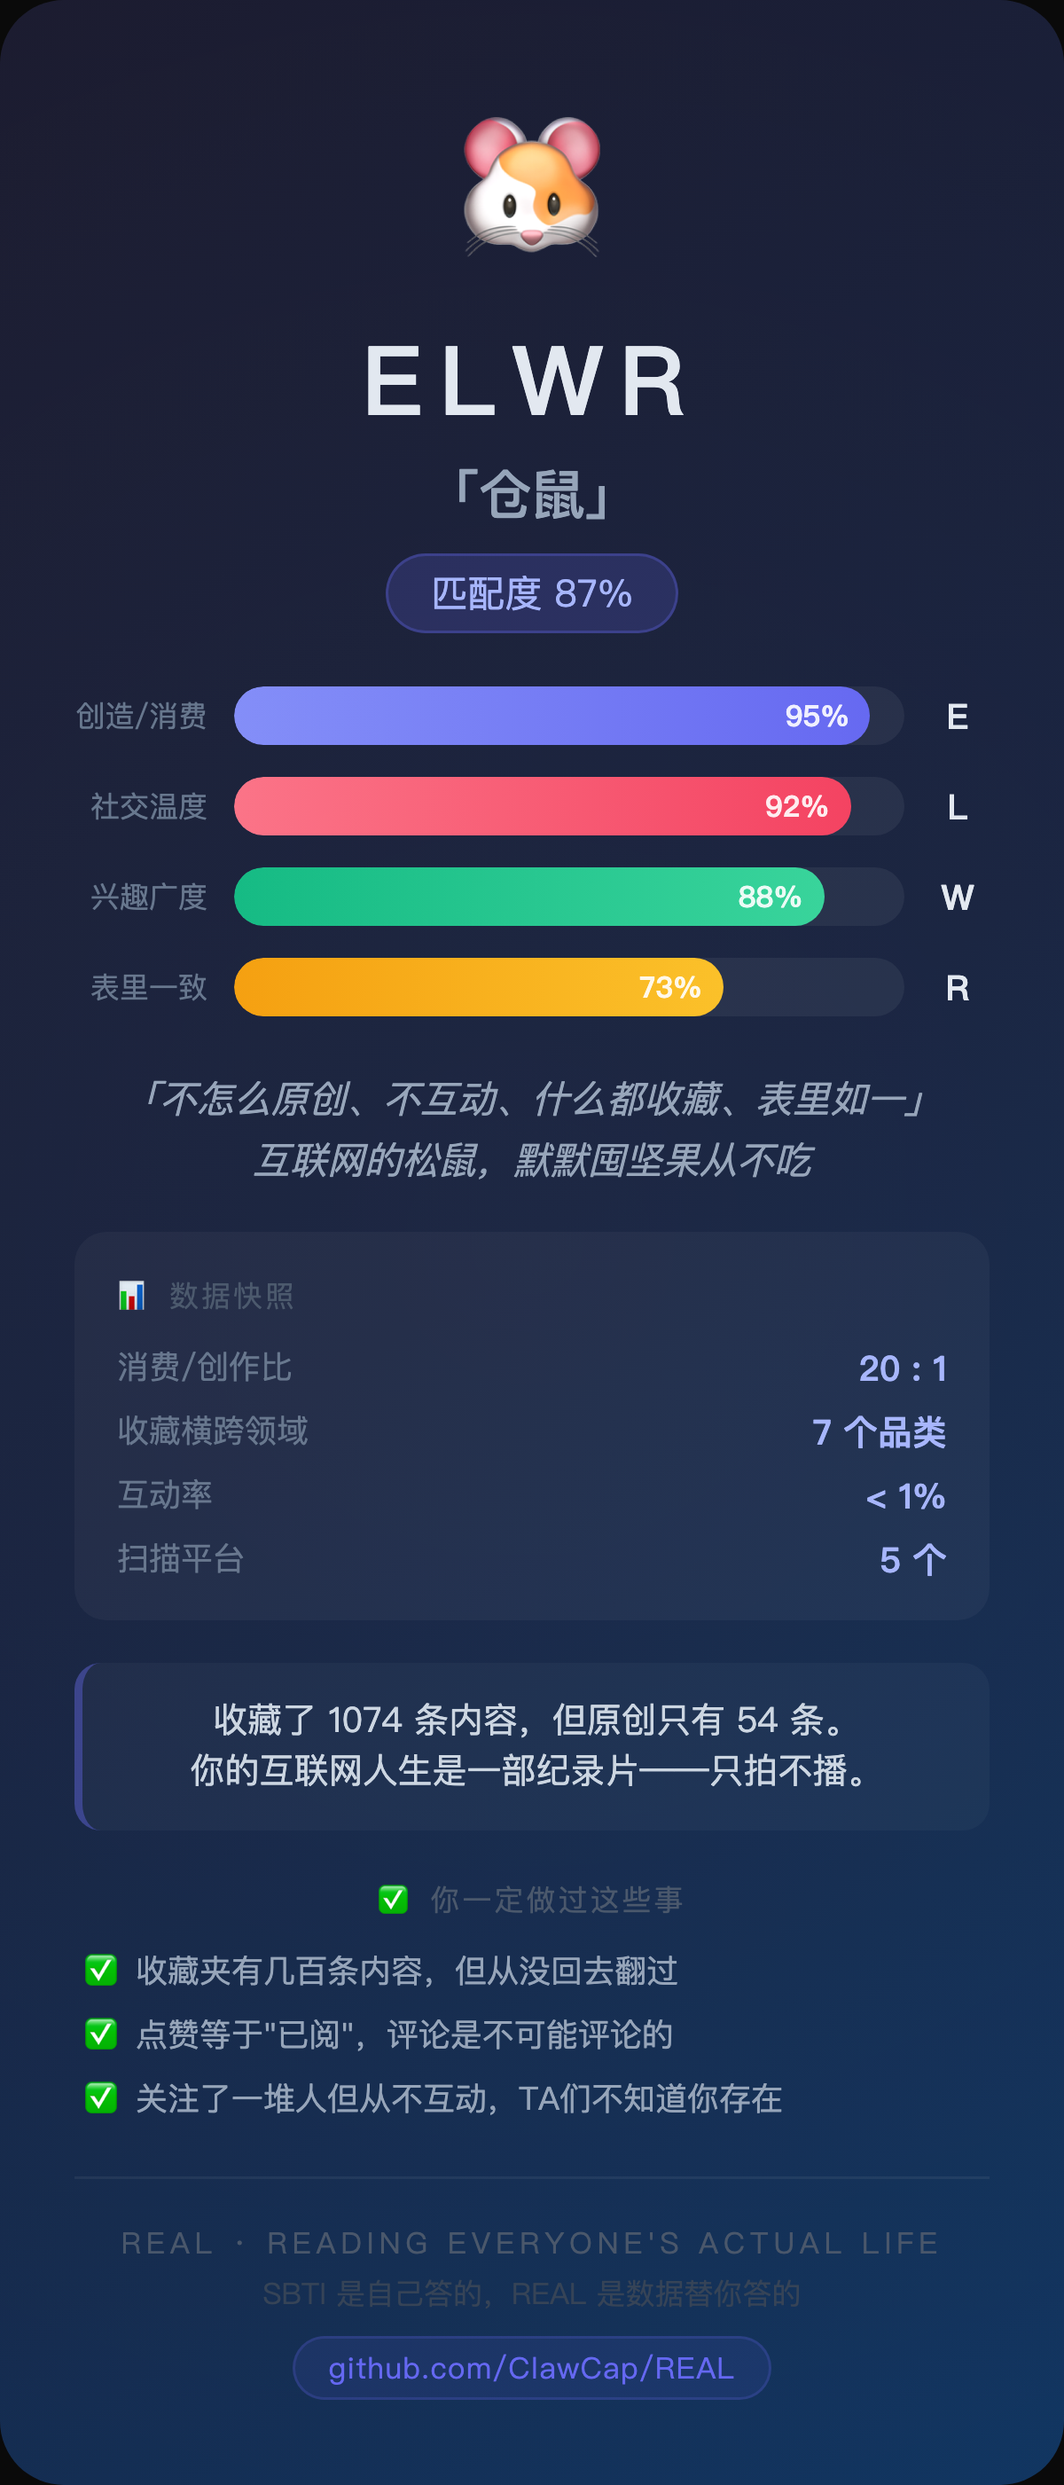
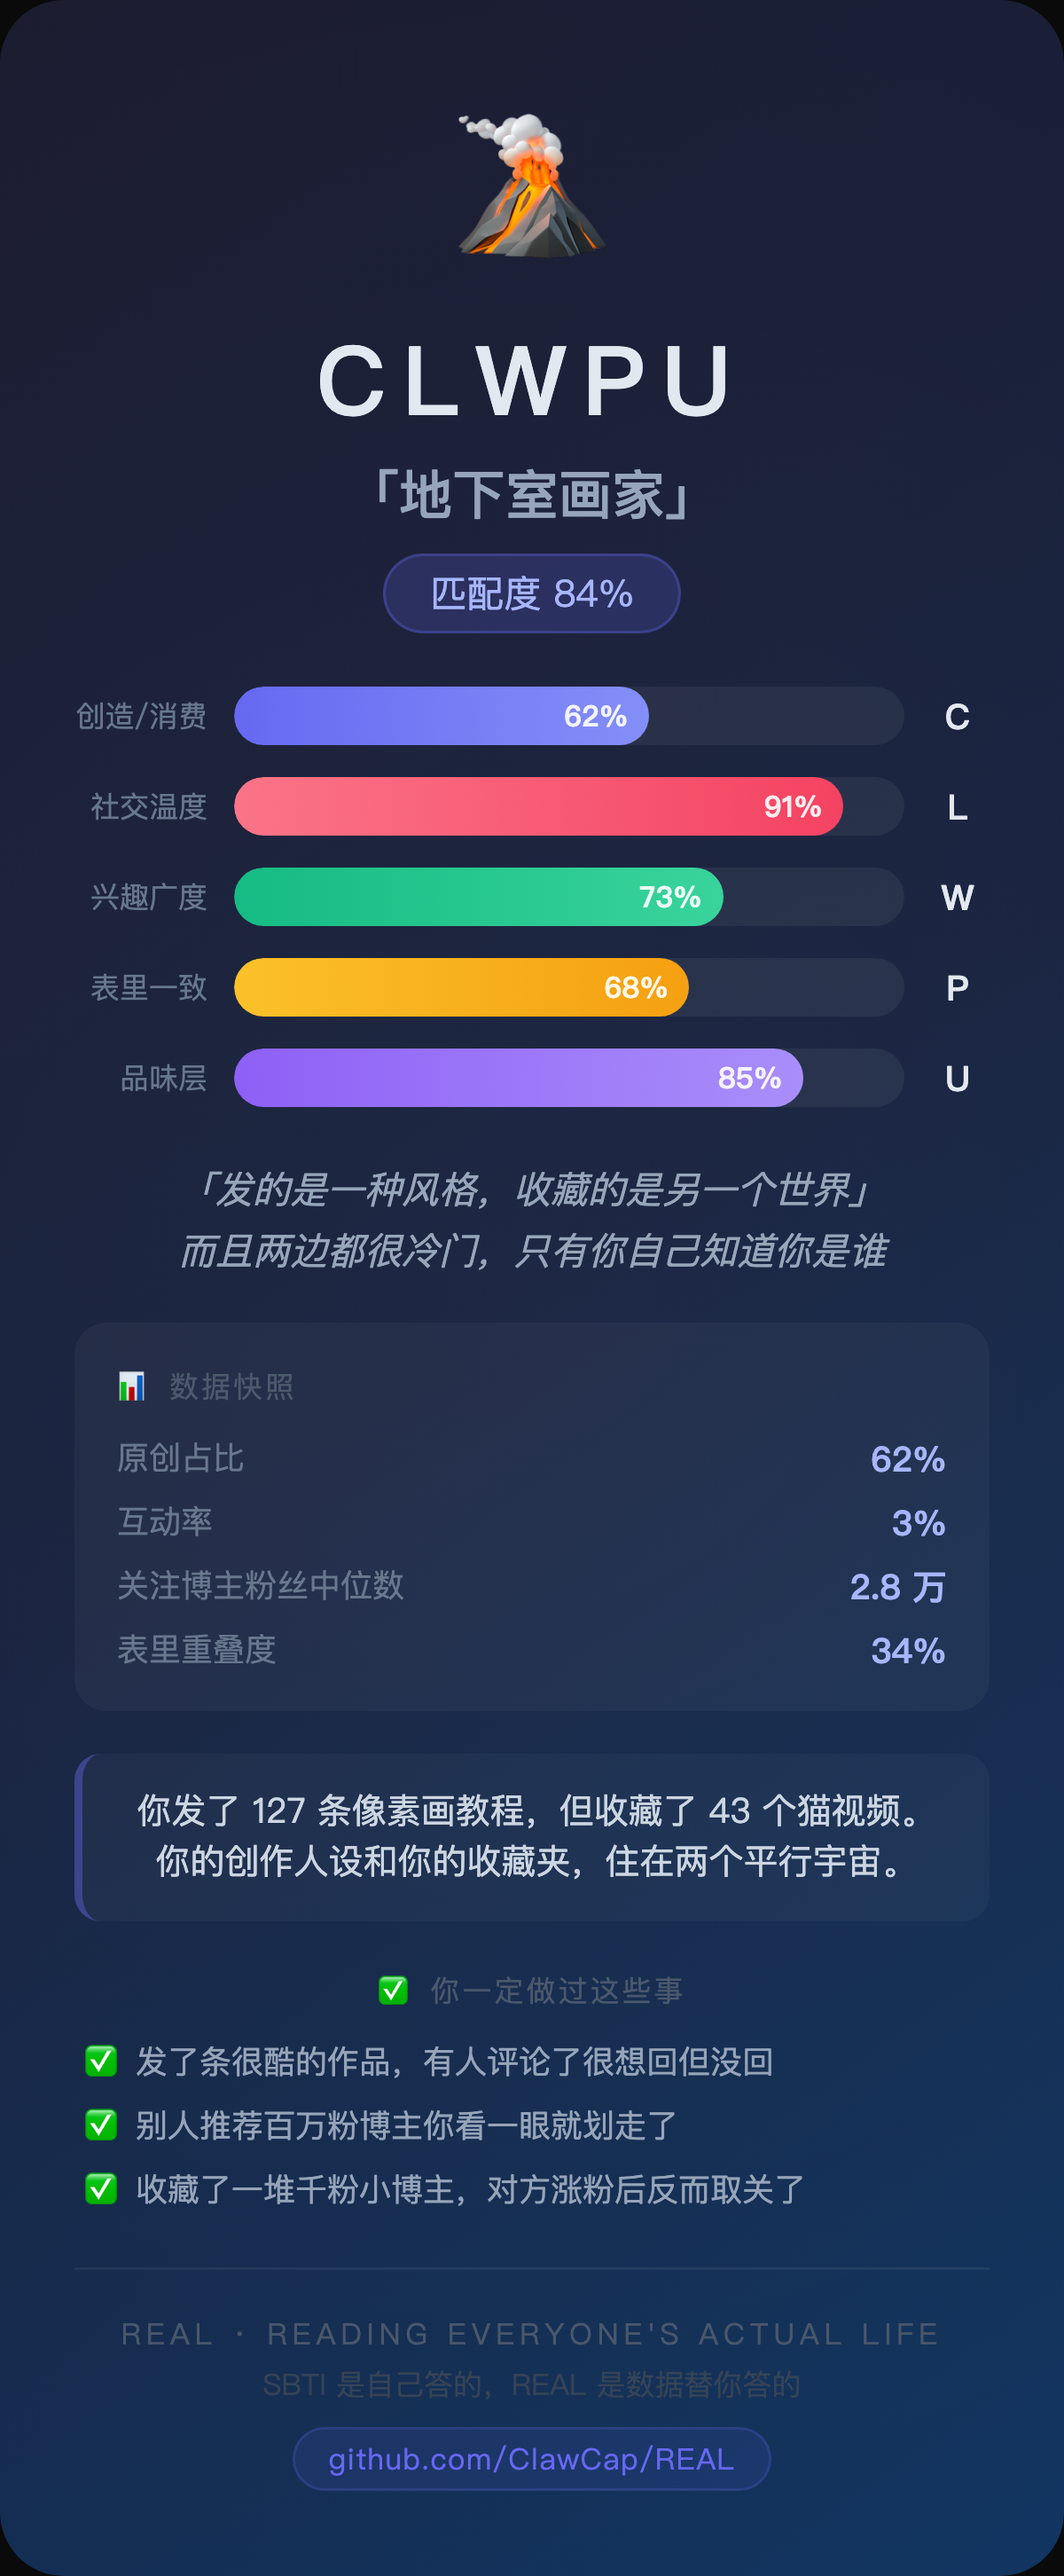
v2.1.1: Update README + share card example for 5-dimension 32 types
- README: added dimension 5 (品味层 U/M) to table
- README: updated 32 type names to new unique names
- README: share card section restructured
- Share card example regenerated with CLWPU 地下室画家 (5 bars)

diff --git a/README.md b/README.md
@@ -64,49 +64,34 @@ REAL 不问你任何问题。它看你发了什么、收藏了什么、点赞了
 | 🔥 **社交温度** | H（热）vs L（冷） | 你互动多还是发了就走 |
 | 🎯 **兴趣广度** | W（广）vs D（深） | 你什么都看还是只看一个领域 |
 | 🎭 **表里一致** | R（真）vs P（演） | 你发的和你收藏的是不是一回事 |
+| 💎 **品味层** | U（小众）vs M（大众） | 你追的是千粉博主还是百万大V |
 
 ### 32 种类型一览
 
 **创造者阵营**：
-👑 CHWR 主角 · 🎭 CHWP 戏精 · 🏆 CHDR 大佬 · 🎪 CHDP 人设
-💎 CLWR 宝藏 · 🌋 CLWP 闷骚 · 🔨 CLDR 匠人 · 🗡 CLDP 刺客
+🎸 教父 · 👑 顶流 · 🦎 变色龙 · 📺 综艺咖 · 🔬 祖师爷 · 🏆 扛把子 · 🎪 双面教主 · 📱 人设帝
+🗺 游牧诗人 · 💎 佛系博主 · 🌋 地下室画家 · 🌊 闷声发财 · 🔨 隐士高人 · ⚙ 老黄牛 · 🗡 暗影猎手 · 🥷 白手套
 
 **消费者阵营**：
-🗣 EHWR 话痨 · 🤖 EHWP 水军 · 💗 EHDR 迷弟/迷妹 · 🕵 EHDP 卧底
-🐹 ELWR 仓鼠 · 👻 ELWP 幽灵 · 🔇 ELDR 潜水艇 · 🚪 ELDP 深柜
+🎙 文艺沙龙 · 🗣 朝阳群众 · 🤿 社交间谍 · 🤖 控评达人 · 💜 死忠粉 · 💗 应援团长 · 🕵 无间道 · 🎤 反串高手
+🐿 赏鉴家 · 🐹 收割机 · 🦇 影子人 · 👻 透明人 · 🔇 钉子户 · 🛟 旁观者 · 🪆 俄罗斯套娃 · 🧊 冰山
 
 ---
 
 ## 📋 效果预览
 
-```
-┌──────────────────────────────┐
-│  🔍 REAL 人格测试              │
-│                              │
-│  CLWP「闷骚」🌋              │
-│  匹配度 84%                   │
-│                              │
-│  "表面沉默，内心翻涌。        │
-│   收藏夹是你的秘密花园。"      │
-│                              │
-│  📊 C62 | L91 | W73 | P68    │
-│                              │
-│  sbti是自己答的               │
-│  real是数据替你答的            │
-└──────────────────────────────┘
-```
+### 分享卡片
+
+自动生成高清 PNG，保存到手机直接发朋友圈/小红书。零隐私数据，只有类型结果。
+
+<img src="examples/share_card_example.png" alt="REAL 分享卡片示例" width="300" />
 
 ### 报告内容
 
-- 📊 4 维度详细数据 + 解读
+- 📊 5 维度详细数据 + 解读
 - 😈 扎心解读（"你收藏了43个猫视频但从没发过任何猫相关内容"）
 - 💪 隐藏优势（每个类型都有正面解读）
 - ✅ "你一定做过这些事"（让人想截图的列表）
-- 📸 **分享卡片**（自动生成 PNG，保存到手机直接发朋友圈）
-
-### 分享卡片示例
-
-<img src="examples/share_card_example.png" alt="REAL 分享卡片示例" width="300" />
 
 ---
 
